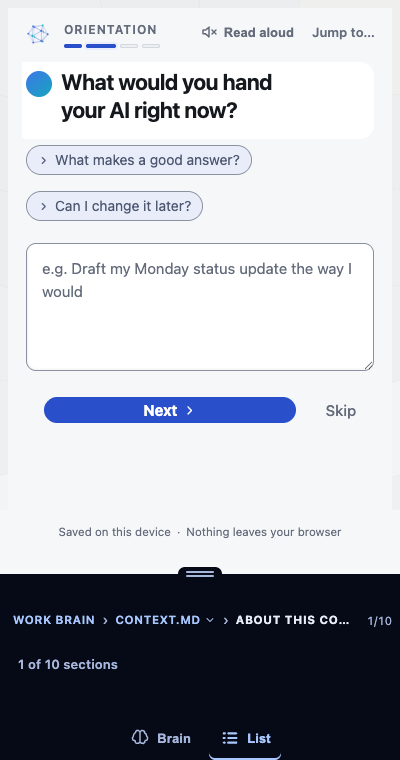
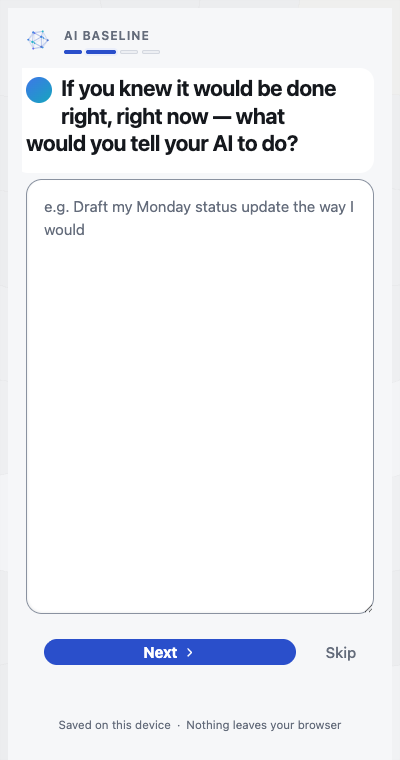
The baseline question becomes a prompt box
Adam: "I want this to look like a prompt input on a standard AI service. It
needs to feel the same for them to naturally understand how to just give an
order if they are not accustomed to that."

The screen was an interview step wearing an interview step's furniture. A
person who has never given an order to an AI does not learn to from a screen
that looks like a questionnaire. So on this one screen — and only this one —
everything that says "interview" comes off, and what is left is a label, a
question, a box and one button. That is the whole of a prompt input, which is
the point.

`promptOnly()` in nameGenerator.ts holds the fold, beside `travelsLight()`.
One id today. What it suppresses:

  - the chrome row (read-aloud, Jump to)
  - the deep-dives
  - the file drawer and the docked nav beneath it
  - the module title, replaced by "AI baseline"

The question is reframed to match. It was asking what somebody wanted, which
invites a wish; it now asks what they would TELL their AI to do if they knew
it would be done right, right now. The follow-up is gone — this one stands on
its own. The wording change is the substantive half of this commit: an order
is what a baseline needs, and the old framing was producing a paragraph of
hoping, which is not a task any model can be measured against.

THREE THINGS THIS TOOK THAT WERE NOT OBVIOUS.

Removing the drawer is not enough to remove the space it held. `.flow`'s
[…]

diff --git a/src/panel/surfaces/Flow.tsx b/src/panel/surfaces/Flow.tsx
@@ -115,7 +115,7 @@ import { heldLineOptions, offeredLineOptions, usesDividedLine } from '../../core
 import { PAIR_CAPTIONS, pairFor, pairedStepsFor, usesPairedPick } from '../../core/choice/pairedPick';
 import { LINE_CUSTOM_GLYPH, PAIR_GLYPHS, PERSONA_GLYPHS, ROLE_FOR_GLYPHS, SCOPE_GLYPHS } from '../components/choiceGlyphs';
 import { ideaAt, ideasFor } from '../../core/flow/ideas';
-import { generatedNameAt, travelsLight, usesNameGenerator } from '../../core/flow/nameGenerator';
+import { generatedNameAt, promptOnly, travelsLight, usesNameGenerator } from '../../core/flow/nameGenerator';
 import { interviewMePrompt, looksLikeFencedReply, normalizePastedReply } from '../../core/flow/interviewMe';
 import { assistServiceUrlFor } from '../../core/flow/assistServices';
 import { goalServiceLabelFor, reflectLeadFor, reflectVoiceLine } from '../../core/flow/reflectFrames';
@@ -1235,7 +1235,12 @@ export function Flow({ modules, renderDone, onDone, onHome, onFixSteps, initialP
     );
   }
 
-  return withDrawer(
+  /* THE BASELINE SCREEN GETS NO DRAWER. The file does not exist yet, so the
+     drawer would be showing an empty version of the product's most complicated
+     affordance at the one moment somebody is being taught to type an order.
+     Same call the baseline offer makes two screens later, for the same
+     reason. */
+  const stepView = (
     <StepView
       key={positionKey(position)}
       cue={positionKey(position)}
@@ -1255,8 +1260,24 @@ export function Flow({ modules, renderDone, onDone, onHome, onFixSteps, initialP
       onFixSteps={onFixSteps}
       onJumpTo={outline ? jumpToQuestion : undefined}
       jumpList={jumpList}
-    />,
+    />
   );
+
+  /* THE BASELINE SCREEN GETS A SHELL THAT RESERVES NOTHING.
+     It cannot use `withDrawer` — there is no drawer — but it cannot go bare
+     either: `.flow`'s `min-height: calc(100dvh - var(--flow-area-offset))`
+     falls back to 262px without one, so the surface collapsed to the top third
+     of the panel and left the wallpaper showing underneath. Its own shell sets
+     the offset to zero, and the form fills the panel the way a composer
+     does. */
+  if (position.kind === 'step' && promptOnly(position.step)) {
+    return (
+      <div className="flowshell flowshell--bare" style={{ '--flow-area-offset': '0px' } as CSSProperties}>
+        {stepView}
+      </div>
+    );
+  }
+  return withDrawer(stepView);
 }
 
 /** Fires `onDone` once, before paint, and renders nothing — see `onDone`'s
@@ -2040,6 +2061,12 @@ function StepView({
     };
   })();
 
+  /* THE BASELINE SCREEN'S OWN SHAPE (core/flow/nameGenerator.ts's
+     `promptOnly`). Read here rather than inside the step body because what it
+     changes is the SURFACE — the chrome row, the progress label and the drawer
+     — not the question. */
+  const bare = pos.kind === 'step' && promptOnly(pos.step);
+
   const topSection = (
     <>
       {/* BS-05f (§5) — "Jump to…", beside the narrator's own toggle. Both
@@ -2063,14 +2090,22 @@ function StepView({
           home. `home.spec` caught it as a 30-second timeout clicking a button
           that was visible, enabled, and underneath something. A control that
           costs the row no pixels still costs somebody else's pixels. */}
-      <div className="flow-chrome">
-        <NarratorToggle />
-        {onJumpTo && (
-          <button type="button" className="flow-jump" onClick={() => setJumpOpen(true)}>
-            {S.jumpOpen}
-          </button>
-        )}
-      </div>
+      {/* THE BASELINE SCREEN CARRIES NO CHROME (core/flow/nameGenerator.ts's
+          `promptOnly`). The narrator toggle and Jump to… are both ways around
+          a fifty-question interview, and this screen is a prompt box — the one
+          shape somebody who has never given an AI an order already recognises.
+          Anything that says "interview" works against the thing it is trying
+          to teach. */}
+      {!bare && (
+        <div className="flow-chrome">
+          <NarratorToggle />
+          {onJumpTo && (
+            <button type="button" className="flow-jump" onClick={() => setJumpOpen(true)}>
+              {S.jumpOpen}
+            </button>
+          )}
+        </div>
+      )}
       {onJumpTo && (
         <JumpSheet
           open={jumpOpen}
@@ -2083,7 +2118,9 @@ function StepView({
         />
       )}
       <FlowProgress
-        title={moduleFor(modules, pos)?.title ?? ''}
+        /* "AI baseline", not "Orientation": this screen is not orientation, it
+           is the one measurement the whole product is built to move. */
+        title={bare ? S.baselineEyebrow : (moduleFor(modules, pos)?.title ?? '')}
         current={topLevelIndex(modules, pos)}
         total={total}
         onHome={onHome}
@@ -2536,7 +2573,7 @@ function StepView({
 
   return (
     <form
-      className="flow"
+      className={bare ? 'flow flow--prompt' : 'flow'}
       data-position="step"
       data-step-id={step.id}
       {...stopHere}
@@ -2621,7 +2658,15 @@ function StepView({
               </div>
             </div>
           )}
-          <QuestionHelp step={step} onDisclose={narrateFollowUp} stoppedBy={reasonFor(rotation)} />
+          {/* Adam: "remove the follow up question, this one can stand on its
+              own". A question that needs two follow-ups to be answerable has a
+              problem the follow-ups are hiding — and on a screen whose job is
+              to look like a prompt box, a row of chips is the clearest signal
+              that it is not one. The HINT still shows: it is the instruction,
+              and every AI composer has placeholder text doing the same job. */}
+          {!bare && (
+            <QuestionHelp step={step} onDisclose={narrateFollowUp} stoppedBy={reasonFor(rotation)} />
+          )}
         </div>
       )}
 

diff --git a/src/panel/surfaces/Flow.css b/src/panel/surfaces/Flow.css
@@ -2095,3 +2095,100 @@
   line-height: 1.45;
   color: var(--ink-3);
 }
+
+/* ── THE BASELINE SCREEN, drawn as a prompt box ──────────────────────────
+   Adam, 2026-08-31: "I want this to look like a prompt input on a standard AI
+   service. It needs to feel the same for them to naturally understand how to
+   just give an order if they are not accustomed to that."
+
+   A teaching goal wearing a visual one, and the sharpest thing this screen can
+   do. Somebody who has never given an AI an instruction does not learn to from
+   a hint — they learn it from a box that looks like the box they have seen
+   other people type orders into. So the screen borrows that one shape and the
+   surface drops everything that says "interview" (Flow.tsx's `bare`).
+
+   What is left is a label, a question, a box and one button. */
+
+/* THE BOX TAKES THE ROOM, which is a deliberate divergence from V2.8 VB-137.
+
+   That slice retired the multiline stretch for interview questions, at Adam's
+   word: "a box that grows pushes the buttons away from the typing, and the
+   action buttons are near the input outranks a bigger box is an invitation."
+   Right — for a question in an interview, where the next press is the point.
+
+   This screen is not that. It is a composer, and on a composer the box IS the
+   screen: it is the thing being invited, the buttons are its send, and a large
+   empty field is the single clearest signal that somebody is meant to type
+   something substantial into it. So here, and only here, the answer area
+   stretches and the field fills it. */
+.flow--prompt .flow-answer {
+  flex: 1;
+}
+/* THE BOX IS THREE WRAPPERS DEEP, and every one of them has to pass the room
+   down or the growth stops there and simply opens a gap. `.flow-answer` grows
+   inside the form, `.flow-field-sr-label` grows inside it, `Field`'s own
+   unclassed div grows inside that, and only then does the textarea fill.
+   Every step is `display: flex` because a block box does not hand a share of
+   its height to a child. */
+.flow--prompt .flow-field-sr-label,
+.flow--prompt .flow-field-sr-label > div {
+  flex: 1;
+  display: flex;
+  flex-direction: column;
+  min-height: 0;
+}
+/* The dictation/assist row rides UNDER the box at its own height. It is a
+   sibling of the field wrapper, so without this it takes an equal share of
+   the slack and pushes the buttons down for nothing. */
+.flow--prompt .flow-idea-row {
+  flex: 0 0 auto;
+}
+/* And the 320px ceiling comes off. It is there so a field cannot become a
+   page — on this screen a field IS the page. */
+.flow--prompt .flow-answer textarea.field {
+  max-height: none;
+}
+.flow--prompt .flow-answer .field {
+  flex: 1;
+  min-height: 168px;
+  border-radius: 16px;
+  border-color: var(--border-i);
+  padding: 15px 17px;
+  font-size: var(--type-body);
+  line-height: 1.55;
+}
+.flow--prompt .flow-answer .field:focus {
+  border-color: var(--primary);
+  box-shadow:
+    inset 1px -1px 2px rgba(21, 24, 29, 0.06),
+    0 0 0 4px var(--primary-tint);
+}
+
+/* The question sits closer to the box than an interview question does: on a
+   composer the label and the field are one object, not two. */
+.flow--prompt .flow-q-row {
+  margin-bottom: 2px;
+}
+
+/* And the cluster reads as a send: one filled control, no second word beside
+   it competing for the press. Skip stays — the screen is still skippable, and
+   a baseline nobody can decline is a step rather than an offer — but it sits
+   back where a composer's secondary sits. */
+.flow--prompt .flow-foot {
+  padding-top: 4px;
+}
+
+/* The baseline screen's shell. It exists only to hand the form a zero
+   reservation — there is no dock to reserve for — and to paint the panel's own
+   ground under it, which `.flowshell` normally leaves to the dock's palette. */
+.flowshell--bare {
+  min-height: 100dvh;
+  background: var(--ground);
+}
+/* The save note is `position: fixed` inside a normal shell so it rides above
+   the dock. There is no dock here, so it sits where it falls — at the end of
+   the form, which is where a composer's fine print goes. */
+.flowshell--bare .flow-save {
+  position: static;
+  padding-top: 14px;
+}

diff --git a/src/core/flow/nameGenerator.ts b/src/core/flow/nameGenerator.ts
@@ -71,6 +71,42 @@ export function travelsLight(step: { id: string }): boolean {
   return TRAVELS_LIGHT.has(step.id);
 }
 
+/**
+ * THE BASELINE SCREEN — a question drawn as a prompt box, not as an interview
+ * step.
+ *
+ * Adam, 2026-08-31: *"I want this to look like a prompt input on a standard AI
+ * service. It needs to feel the same for them to naturally understand how to
+ * just give an order if they are not accustomed to that."*
+ *
+ * That is a teaching goal wearing a visual one, and it is the sharpest thing
+ * this screen can do. Somebody who has never given an AI an instruction does
+ * not learn to from a hint; they learn it from a box that looks like the box
+ * they have seen other people type orders into. So the screen borrows the one
+ * shape everybody already recognises and drops everything that says
+ * "interview".
+ *
+ * WHAT GOES, AND WHY EACH ONE:
+ *   · the drawer — the file does not exist yet, so it would show an empty
+ *     version of the product's most complicated affordance;
+ *   · the narrator toggle and Jump to… — both are ways around a fifty-question
+ *     interview, and this screen is not one;
+ *   · the deep-dives — Adam: "this one can stand on its own", and a question
+ *     that needs two follow-ups to be answerable is a question with a problem
+ *     the follow-ups are hiding;
+ *   · examples and the assist (already, via `travelsLight`) — the answer goes
+ *     straight to their own AI, so an AI writing it automates the input to the
+ *     measurement.
+ *
+ * What stays is a label, a question, a box and one button. That is the whole
+ * of a prompt input, which is the point.
+ */
+const PROMPT_ONLY = new Set(['goal_want']);
+
+export function promptOnly(step: { id: string }): boolean {
+  return PROMPT_ONLY.has(step.id);
+}
+
 export function usesNameGenerator(step: { id: string; kind: string }): boolean {
   return step.kind === 'text' && NAME_GENERATOR_QUESTIONS.includes(step.id);
 }

diff --git a/src/core/flow/overrides.ts b/src/core/flow/overrides.ts
@@ -669,8 +669,8 @@ export const GOAL_GATE_NODES: SrcFlowNode[] = [
        them" into the prompt and the suite caught it: every authored prompt
        ends in a question mark, and a question with a command bolted on is two
        things pretending to be one. [DRAFT] */
-    prompt: () => 'What would you hand your AI right now?',
-    hint: 'Type it the way you would type it to them. One real task, small enough to run today. Something it can do with what you paste in — not something that needs your inbox. You will run exactly this at the end and watch the difference.',
+    prompt: () => 'If you knew it would be done right, right now — what would you tell your AI to do?',
+    hint: 'Write it as an order, not a wish. One thing, now, in your own words. You will run exactly this and watch the difference.',
     placeholder: 'e.g. Draft my Monday status update the way I would',
     ideas: [
       'Draft a status update for my manager that sounds like me.',

diff --git a/src/panel/strings.ts b/src/panel/strings.ts
@@ -1669,6 +1669,11 @@ export const S = {
   baselineTitle: 'Run it once with nothing loaded',
   baselineBody:
     'Paste this into your AI now and keep what comes back. It is the only chance to record where you started — everything after this has your file in it.',
+  /* The eyebrow on the baseline question. It replaces the module's own title
+     ("Orientation") because this screen is not orientation — it is the one
+     measurement the whole product is built to move, and naming it is what
+     makes the comparison later mean something. [DRAFT] */
+  baselineEyebrow: 'AI baseline',
   baselineCopy: 'Copy the question',
   baselineCopied: 'Copied',
   baselineGo: 'I ran it — paste what came back',
